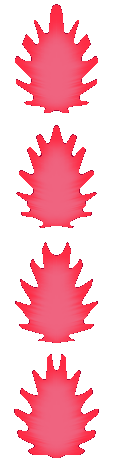
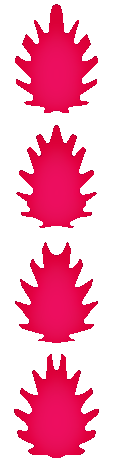
aura (again)

diff --git a/Projectiles/Auras/SSJ1AuraProj.cs b/Projectiles/Auras/SSJ1AuraProj.cs
@@ -54,19 +54,20 @@ namespace DBZMOD.Projectiles.Auras
             }
             base.AI();
         }
-
-        public override bool PreDraw(SpriteBatch spriteBatch, Color lightColor)
+		//glow stuff
+		public override bool PreDraw(SpriteBatch spriteBatch, Color lightColor)
         {
+            projectile.scale = Main.GameZoomTarget;
+            ScaledAuraOffset.Y = -30 * Main.GameZoomTarget;
             spriteBatch.End();
-            spriteBatch.Begin(SpriteSortMode.Texture, BlendState.Additive);          
-            
-            return true;
+            spriteBatch.Begin(SpriteSortMode.Texture, BlendState.Additive);
+            return base.PreDraw(spriteBatch, lightColor);
         }
 
         public override void PostDraw(SpriteBatch spriteBatch, Color lightColor)
         {
             spriteBatch.End();
             spriteBatch.Begin();
-		}
+        }
     }
 }

diff --git a/Projectiles/Auras/LSSJ2AuraProj.cs b/Projectiles/Auras/LSSJ2AuraProj.cs
@@ -54,5 +54,20 @@ namespace DBZMOD.Projectiles.Auras
             }
             base.AI();
         }
+		//glow stuff
+		public override bool PreDraw(SpriteBatch spriteBatch, Color lightColor)
+        {
+            projectile.scale = Main.GameZoomTarget;
+            ScaledAuraOffset.Y = -30 * Main.GameZoomTarget;
+            spriteBatch.End();
+            spriteBatch.Begin(SpriteSortMode.Texture, BlendState.Additive);
+            return base.PreDraw(spriteBatch, lightColor);
+        }
+
+        public override void PostDraw(SpriteBatch spriteBatch, Color lightColor)
+        {
+            spriteBatch.End();
+            spriteBatch.Begin();
+        }
     }
 }

diff --git a/Projectiles/Auras/SSJ2AuraProj.cs b/Projectiles/Auras/SSJ2AuraProj.cs
@@ -54,5 +54,20 @@ namespace DBZMOD.Projectiles.Auras
             }
             base.AI();
         }
+		//glow stuff
+		public override bool PreDraw(SpriteBatch spriteBatch, Color lightColor)
+        {
+            projectile.scale = Main.GameZoomTarget;
+            ScaledAuraOffset.Y = -30 * Main.GameZoomTarget;
+            spriteBatch.End();
+            spriteBatch.Begin(SpriteSortMode.Texture, BlendState.Additive);
+            return base.PreDraw(spriteBatch, lightColor);
+        }
+
+        public override void PostDraw(SpriteBatch spriteBatch, Color lightColor)
+        {
+            spriteBatch.End();
+            spriteBatch.Begin();
+        }
     }
 }

diff --git a/Projectiles/Auras/SSJ3AuraProj.cs b/Projectiles/Auras/SSJ3AuraProj.cs
@@ -54,5 +54,20 @@ namespace DBZMOD.Projectiles.Auras
             }
             base.AI();
         }
+		//glow stuff
+		public override bool PreDraw(SpriteBatch spriteBatch, Color lightColor)
+        {
+            projectile.scale = Main.GameZoomTarget;
+            ScaledAuraOffset.Y = -30 * Main.GameZoomTarget;
+            spriteBatch.End();
+            spriteBatch.Begin(SpriteSortMode.Texture, BlendState.Additive);
+            return base.PreDraw(spriteBatch, lightColor);
+        }
+
+        public override void PostDraw(SpriteBatch spriteBatch, Color lightColor)
+        {
+            spriteBatch.End();
+            spriteBatch.Begin();
+        }
     }
 }

diff --git a/Projectiles/Auras/LSSJAuraProj.cs b/Projectiles/Auras/LSSJAuraProj.cs
@@ -54,7 +54,8 @@ namespace DBZMOD.Projectiles.Auras
 
             base.AI();
         }
-        public override bool PreDraw(SpriteBatch spriteBatch, Color lightColor)
+		//glow stuff
+		public override bool PreDraw(SpriteBatch spriteBatch, Color lightColor)
         {
             projectile.scale = Main.GameZoomTarget;
             ScaledAuraOffset.Y = -30 * Main.GameZoomTarget;
@@ -67,6 +68,6 @@ namespace DBZMOD.Projectiles.Auras
         {
             spriteBatch.End();
             spriteBatch.Begin();
-		}
+        }
     }
 }

diff --git a/Projectiles/Auras/AuraProjectile.cs b/Projectiles/Auras/AuraProjectile.cs
@@ -63,7 +63,7 @@ namespace DBZMOD.Projectiles.Auras
 		//flicker fix
 		public override Color? GetAlpha(Color lightColor)
         {
-			return new Color(255, 255, 255, 240);
+			return new Color(255, 255, 255, 255);
         }
 
         public override void AI()

diff --git a/Projectiles/Auras/BaseAuraProj.cs b/Projectiles/Auras/BaseAuraProj.cs
@@ -66,7 +66,7 @@ namespace DBZMOD.Projectiles.Auras
             }
             base.AI();
         }
-		
+		//glow stuff
 		public override bool PreDraw(SpriteBatch spriteBatch, Color lightColor)
         {
             projectile.scale = Main.GameZoomTarget;
